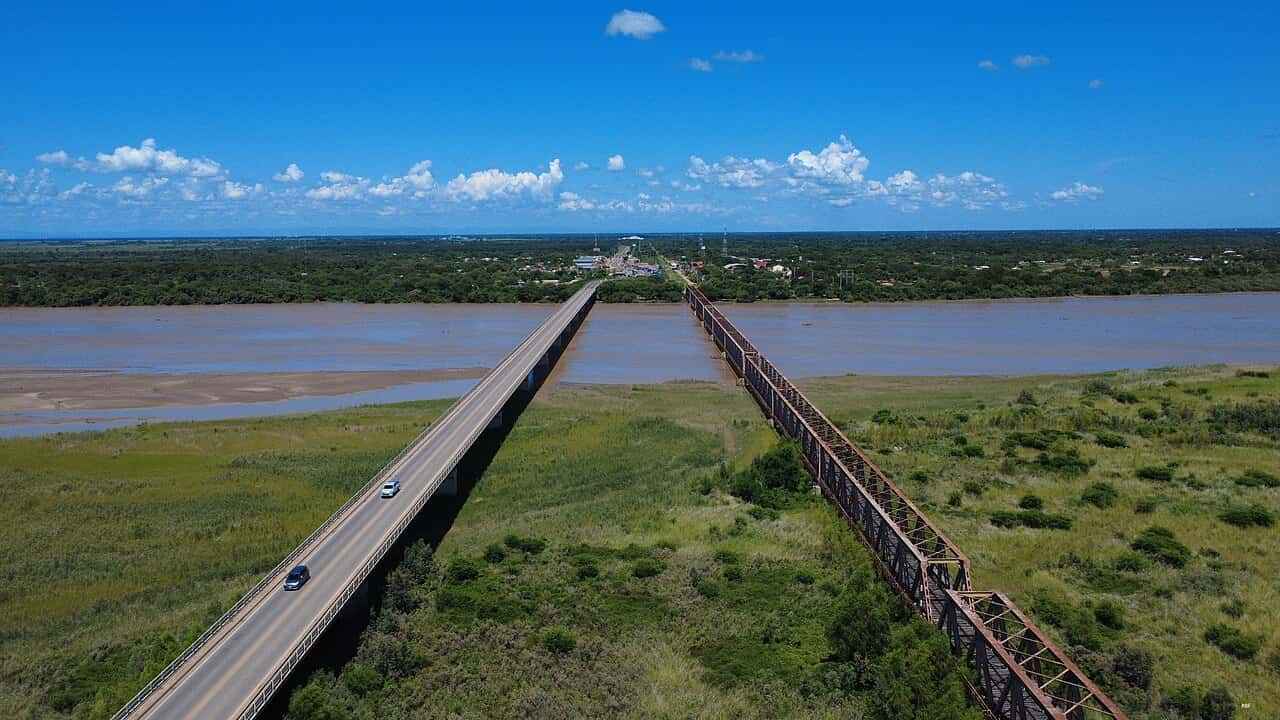
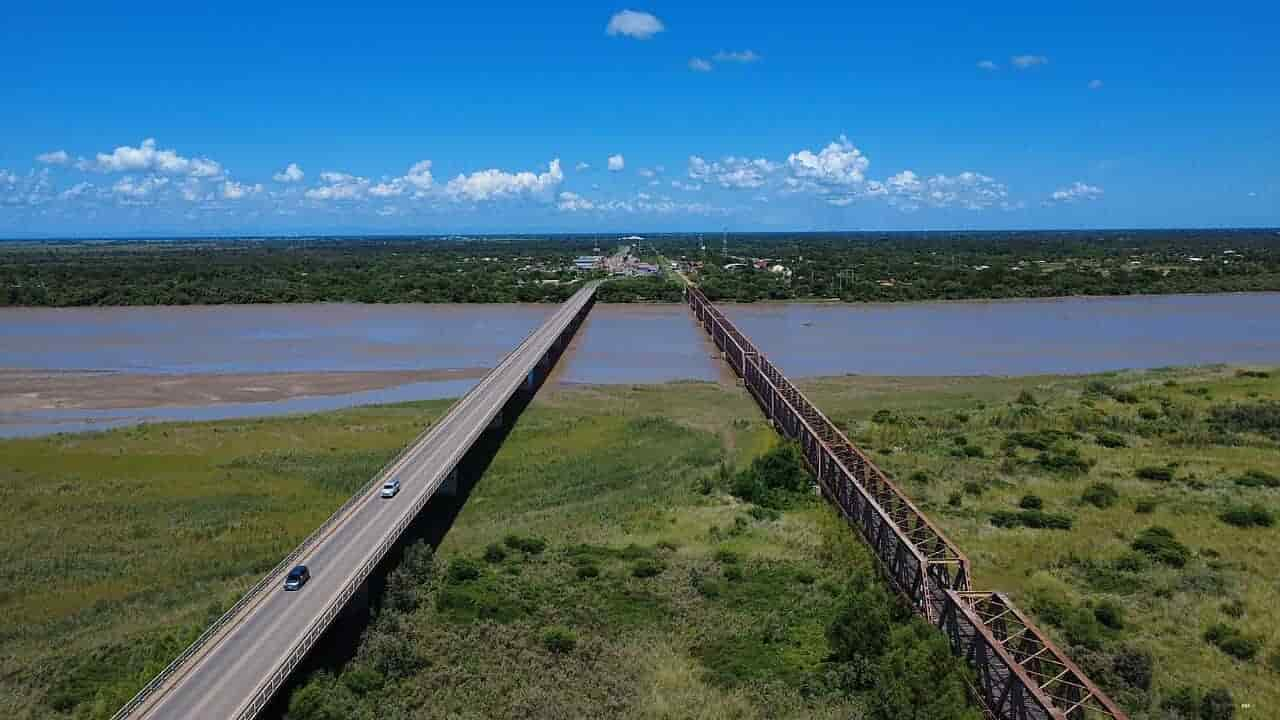
Correcting errors.

diff --git a/wwr/contact.html b/wwr/contact.html
@@ -5,7 +5,7 @@
     <meta charset="UTF-8">
     <meta name="viewport" content="width=device-width, initial-scale=1.0">
     <meta name="description"
-        content="Contact White Water Rafting. Find our address, phone number, email and send us a message for inquiries, reservations or suggestions.">
+        content="Contact White Water Rafting in Bolivia. Find our address, phone number, email, and send us a message for inquiries, reservations or suggestions.">
     <meta name="author" content="Virginia Rocha">
     <title>Contact Us &#124; White Water Rafting</title>
     <link rel="stylesheet" href="styles/rafting.css">
@@ -46,7 +46,8 @@
                     <iframe
                         src="https://www.google.com/maps/embed?pb=!1m14!1m12!1m3!1d3492.221403196261!2d-66.17030415719287!3d-17.34957417386072!2m3!1f0!2f0!3f0!3m2!1i1024!2i768!4f13.1!5e0!3m2!1ses!2sbo!4v1764337628644!5m2!1ses!2sbo"
                         width="600" height="450" allowfullscreen="" loading="lazy"
-                        referrerpolicy="no-referrer-when-downgrade">
+                        referrerpolicy="no-referrer-when-downgrade"
+                        title="Location map of White Water Rafting in Cochabamba, Bolivia">
                     </iframe>
                 </div>
 

diff --git a/wwr/styles/rafting.css b/wwr/styles/rafting.css
@@ -503,16 +503,34 @@ body.home .hero:hover img {
     transform: scale(1.05);
 }
 
+.body.home .hero::before {
+    content: "";
+    position: absolute;
+    top: 0;
+    left: 0;
+    width: 100%;
+    height: 100%;
+    background: rgba(0, 0, 0, 0.4);
+    z-index: 1;
+}
+
 body.home .hero h1 {
-    z-index: 2;
+    display: block;
+    margin: 0 auto;
     position: absolute;
     top: 50%;
     left: 50%;
     transform: translate(-50%, -50%);
-    color: var(--accent2-color);
+    color: #ffffff;
     font-size: 3rem;
     text-align: center;
-    text-shadow: 2px 2px 5px rgba(0, 0, 0, 0.7);
+    z-index: 2;
+    text-shadow: 2px 2px 6px rgba(0, 0, 0, 0.7);
+    width: 80%;
+    max-width: 1000px;
+    padding: 1rem 2rem;
+    background-color: #005dbb;
+    border-radius: 10px;
 }
 
 body.home .newsletter {

diff --git a/wwr/trips.html b/wwr/trips.html
@@ -5,7 +5,7 @@
     <meta charset="UTF-8">
     <meta name="viewport" content="width=device-width, initial-scale=1.0">
     <meta name="description"
-        content="Experience thrilling white water rafting adventures in Bolivia. Discover trips for beginners and experts, book your adventure today!">
+        content="Explore our range of thrilling White Water Rafting trips in Bolivia. Find detailed itineraries, difficulty levels, and book your perfect adventure today!">
     <meta name="author" content="Virginia Rocha">
     <title>Trips &#124; White Water Rafting</title>
     <link rel="stylesheet" href="styles/rafting.css">

diff --git a/wwr/about.html b/wwr/about.html
@@ -5,7 +5,7 @@
     <meta charset="UTF-8">
     <meta name="viewport" content="width=device-width, initial-scale=1.0">
     <meta name="description"
-        content="We are a family of nature lovers. Discover our story and the team that transforms every trip into unforgettable memories.">
+        content="Learn about our rafting company, our mission, and the team that brings safe and exciting white-water adventures to life in Bolivia.">
     <meta name="author" content="Virginia Rocha">
     <title>About Us &#124; White Water Rafting</title>
     <link rel="stylesheet" href="styles/rafting.css">
